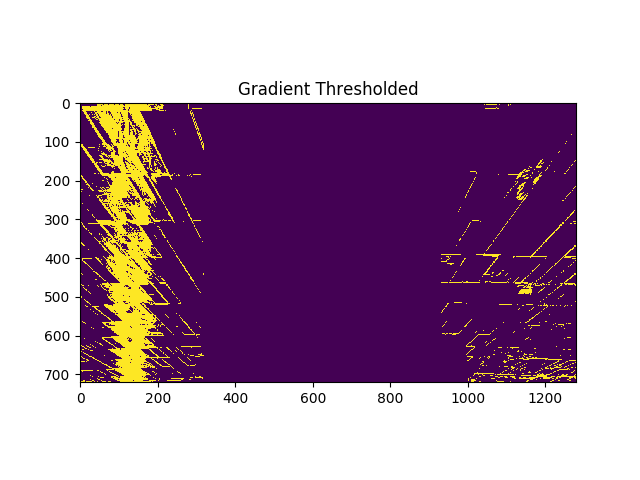
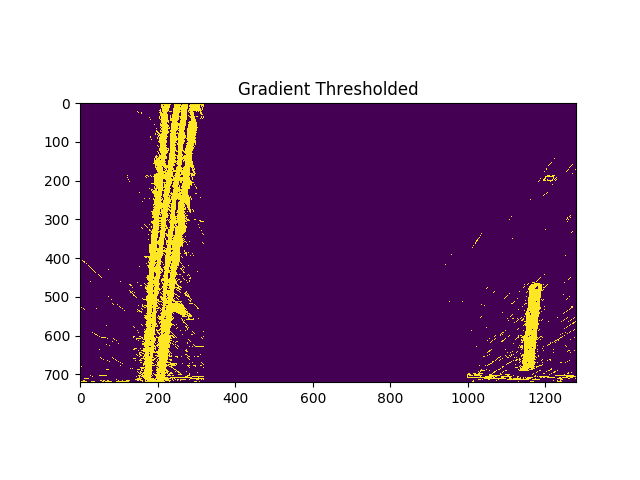
All images in place

diff --git a/utility.py b/utility.py
@@ -127,23 +127,19 @@ def gradientThreshold(img, kernelsize):
 
     if(saveplots):
         plt.figure(1300)
-        plt.subplot(3,2,1)
+        plt.subplot(2,2,1)
         plt.imshow(np.uint8(gradx)*255)
         plt.title("gradx")
         plt.colorbar()
-        plt.subplot(3,2,2)
+        plt.subplot(2,2,2)
         plt.imshow(np.uint8(grady)*255)
         plt.title("grady")
         plt.colorbar()
-        plt.subplot(3,2,3)
+        plt.subplot(2,2,3)
         plt.imshow(np.uint8(mag_binary)*255)
         plt.title("mag_binary")
         plt.colorbar()
-        plt.subplot(3,2,4)
-        plt.imshow(np.uint8(dir_binary)*255)
-        plt.title("dir_binary")
-        plt.savefig("output_images/grad_combined.png")
-        plt.subplot(3,2,5)
+        plt.subplot(2,2,4)
         plt.imshow(np.uint8(combined)*255)
         plt.title("grad combined")
         plt.savefig("output_images/grad_combined.png")

diff --git a/p4code.py b/p4code.py
@@ -17,7 +17,7 @@ import calibrate as cal # camera calibration functionality
 import perspective as ps # perspective transformation (warping) functionality
 #############################################################################
 
-mode = 1
+mode = 0
 if(mode==0):
     saveplots = False
 else:
@@ -161,10 +161,8 @@ if __name__ == '__main__':
 #########################################################################
 
     if processimages:
-        # imagenames = glob.glob('./test_images/*.jpg')
+        imagenames = glob.glob('./test_images/*.jpg')
         # imagenames = ['./test_images/test3.jpg']
-
-        imagenames = ['./frames/frame_0613.jpg']
 
         for imagename in imagenames:
 
